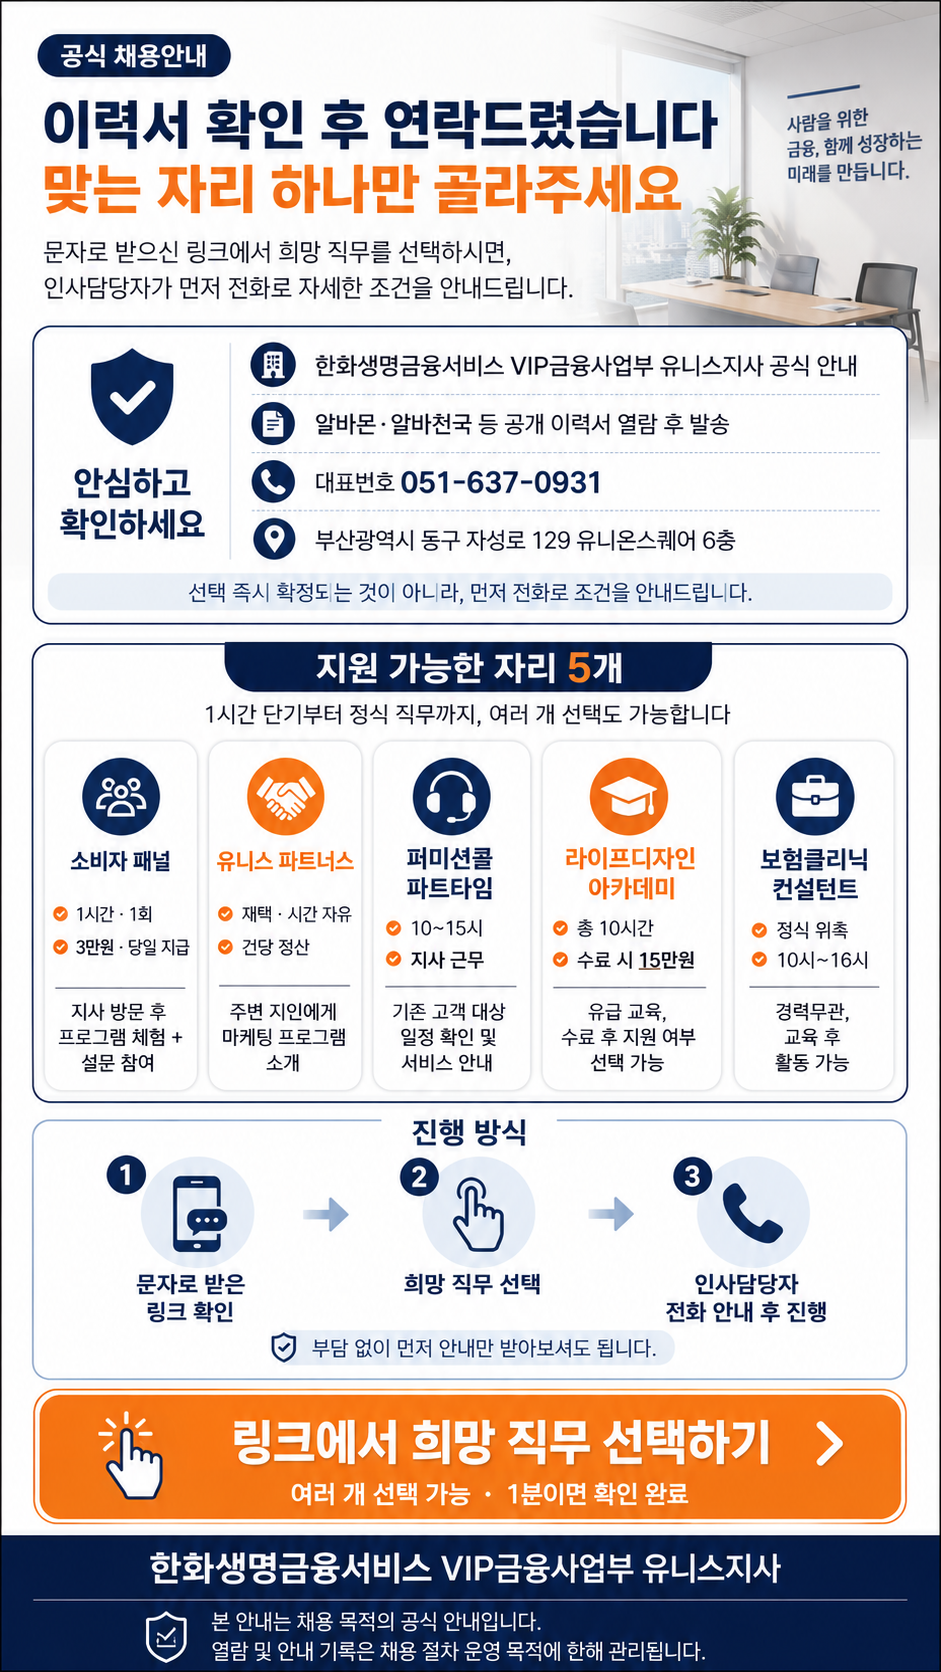
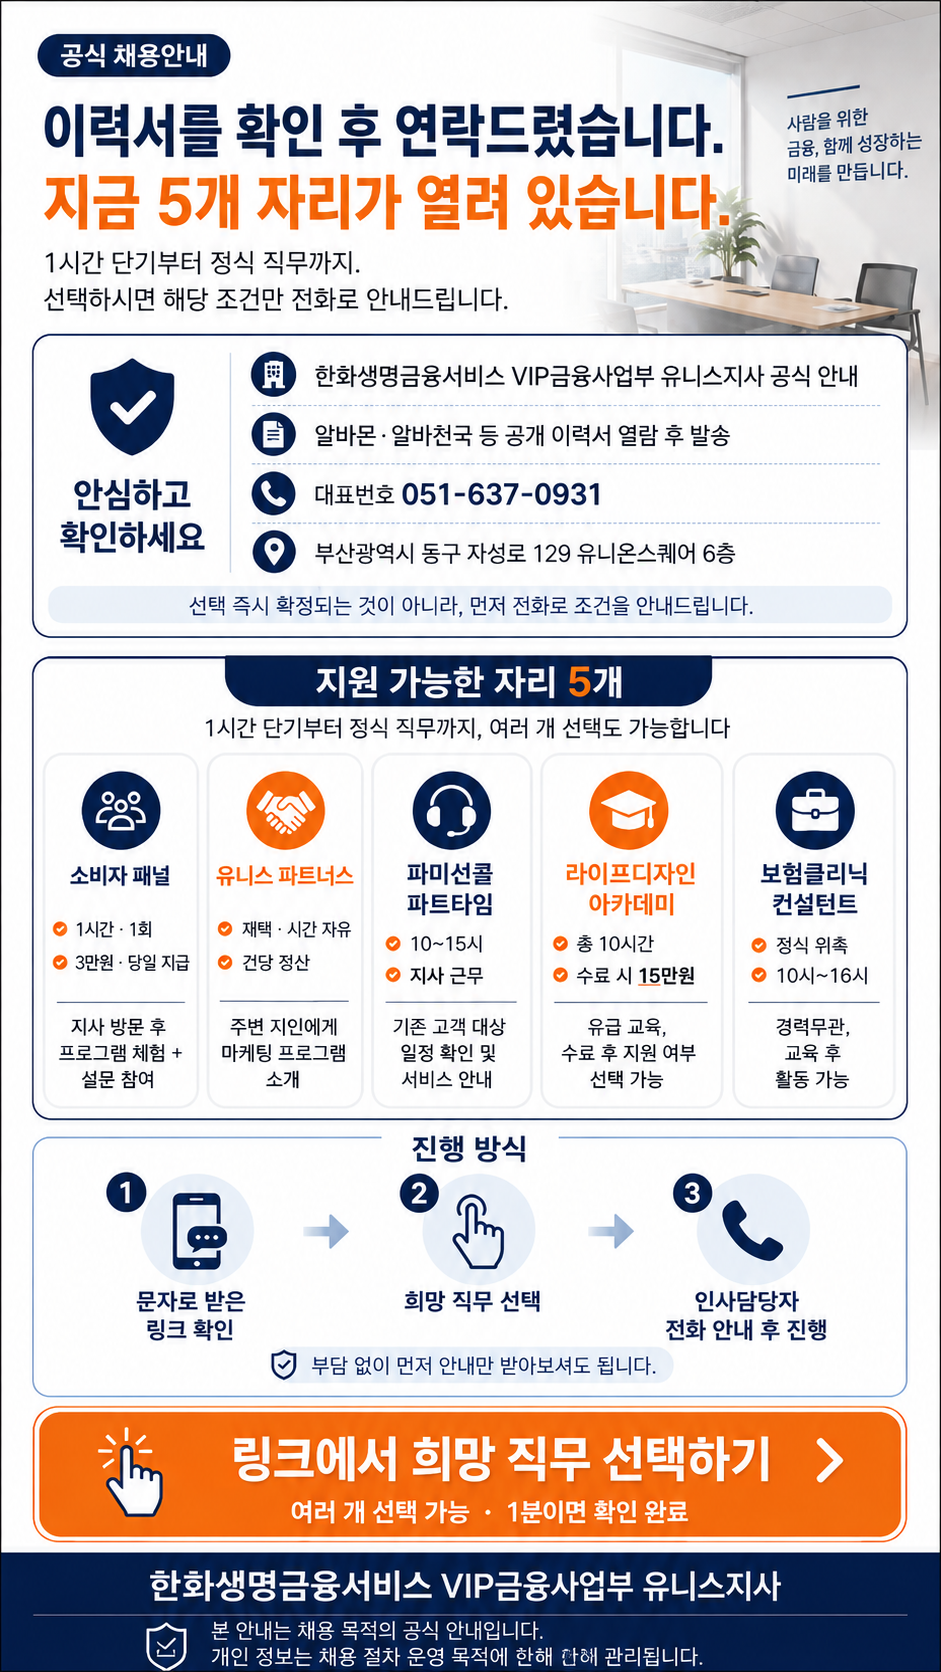
Add files via upload

diff --git a/unispace/job/index.html b/unispace/job/index.html
@@ -138,8 +138,8 @@ h1 em{font-style:normal;color:var(--or-deep)}
 
   <div class="hero">
     <div class="eyebrow">공식 채용안내 · 읽는 데 1분</div>
-    <h1 id="heroTitle">이력서를 보고<br>연락드렸습니다.<br><em>맞는 자리 하나만</em> 골라주세요.</h1>
-    <p class="lead">1시간짜리 단기부터 정식 직무까지 5개입니다. 지금은 선택만 하시고, 자세한 조건은 골라주신 항목만 안내드립니다.</p>
+    <h1 id="heroTitle">이력서를 확인하고<br>연락드렸습니다.<br>지금 <em>5개 자리</em>가 열려 있습니다.</h1>
+    <p class="lead">1시간 단기부터 정식 직무까지. 선택하시면 해당 조건만 전화로 안내드립니다.</p>
   </div>
 
   <div style="margin:16px 16px 0;display:grid;grid-template-columns:1fr 1fr 1fr;gap:6px">
@@ -423,7 +423,7 @@ h1 em{font-style:normal;color:var(--or-deep)}
         var wk = ['일','월','화','수','목','금','토'];
         document.getElementById('tkValid').textContent = parseInt(vp[1],10) + '월 ' + parseInt(vp[2],10) + '일(' + wk[vd.getDay()] + ')까지';
       }
-      if (nm) document.getElementById('heroTitle').innerHTML = esc(nm) + '님 이력서를 보고<br>연락드렸습니다.<br><em>맞는 자리 하나만</em> 골라주세요.';
+      if (nm) document.getElementById('heroTitle').innerHTML = esc(nm) + '님 이력서를 확인하고<br>연락드렸습니다.<br>지금 <em>5개 자리</em>가 열려 있습니다.';
       if (res.owner && res.owner.name) {
         document.getElementById('ownName').textContent = res.owner.name;
         var av = document.getElementById('ownAvatar');
